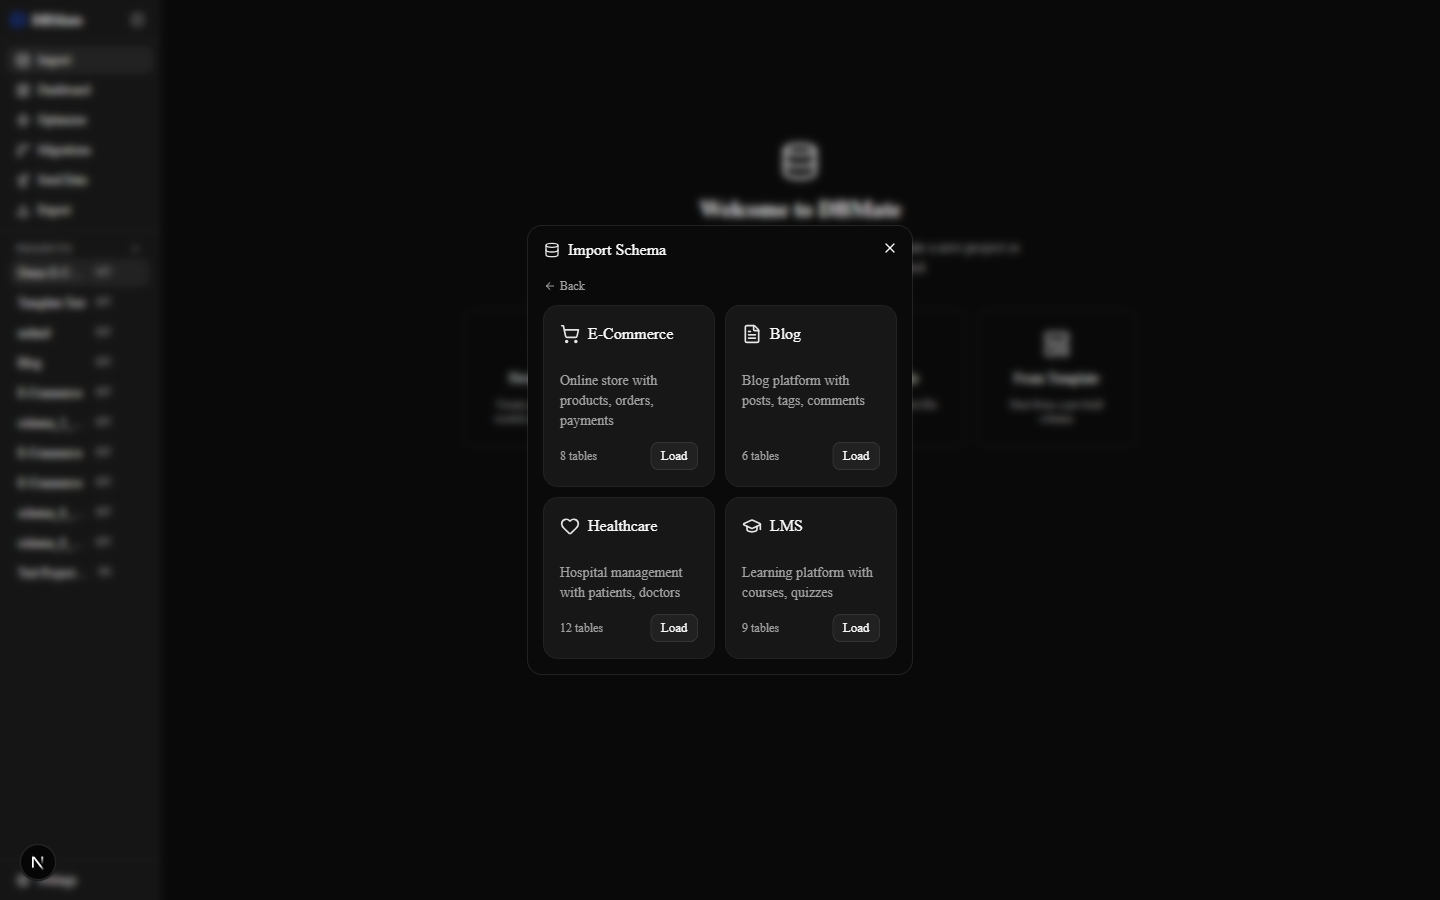
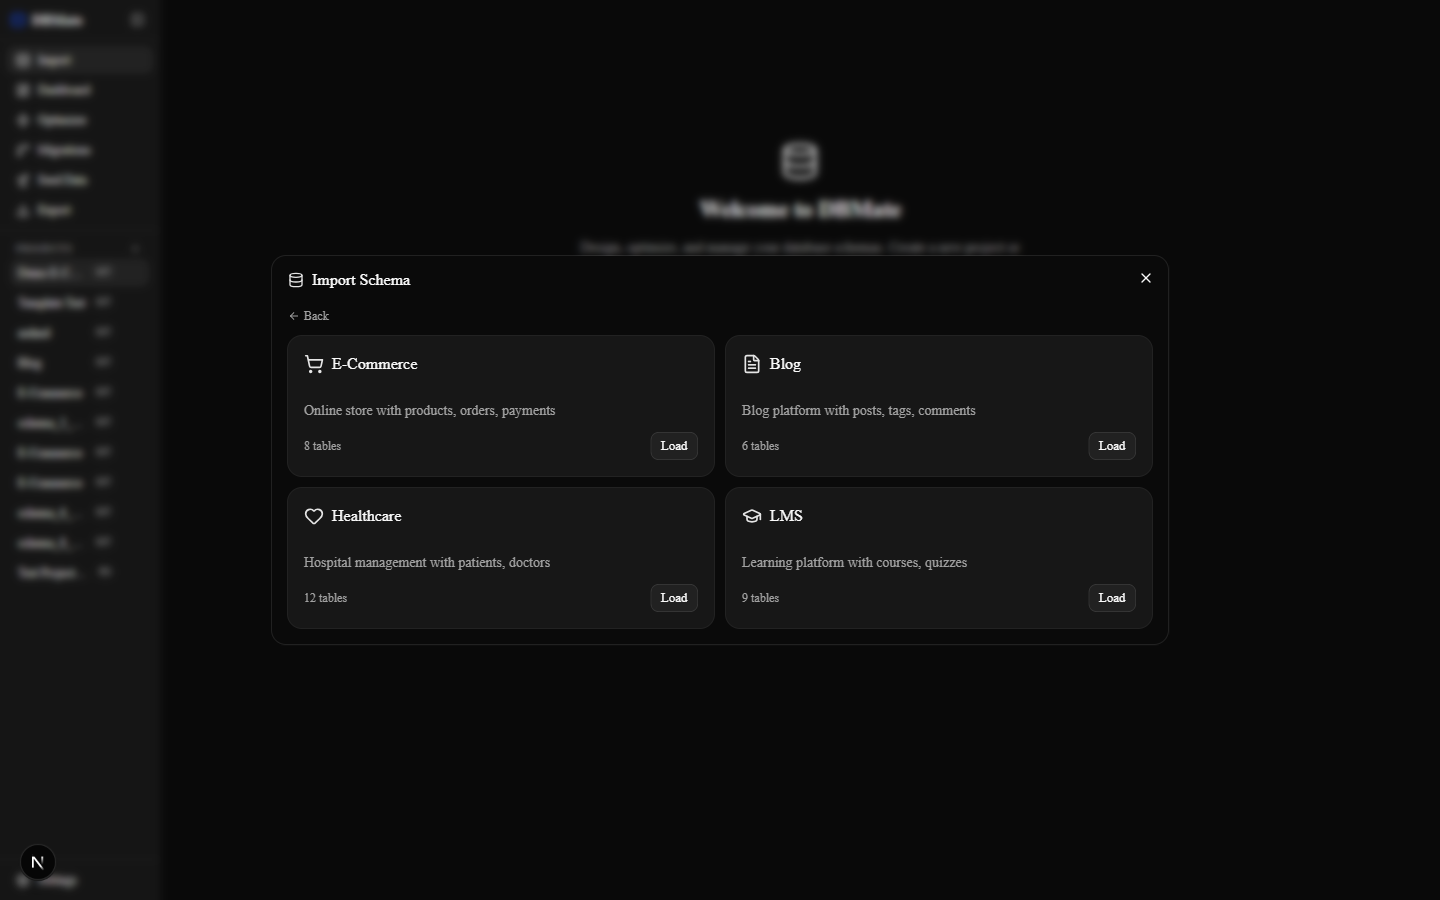
fix: widen dialog, center buttons, add light mode screenshot
- Remove sm:max-w-sm from dialog.tsx that was overriding wizard widths
- Dialog template step: max-w-4xl, SQL step: max-w-3xl
- Center Generate Migration and Seed Data buttons with flex wrapper
- Add light mode dashboard screenshot (19-dashboard-light-mode.png)
- Update SUBMISSION.md with dark/light mode mention

diff --git a/src/app/seed/page.tsx b/src/app/seed/page.tsx
@@ -163,20 +163,22 @@ export default function SeedPage() {
         </div>
 
         {/* Generate button */}
-        <Button
-          onClick={handleGenerate}
-          disabled={isGenerating || enabledTables.length === 0}
-          className="w-full max-w-md mx-auto"
-        >
-          {isGenerating ? (
-            <Loader2 className="h-4 w-4 mr-2 animate-spin" />
-          ) : (
-            <Sprout className="h-4 w-4 mr-2" />
-          )}
-          {isGenerating
-            ? 'Generating...'
-            : `Generate Seed Data (${enabledTables.length} table${enabledTables.length !== 1 ? 's' : ''})`}
-        </Button>
+        <div className="flex justify-center">
+          <Button
+            onClick={handleGenerate}
+            disabled={isGenerating || enabledTables.length === 0}
+            className="w-full max-w-md"
+          >
+            {isGenerating ? (
+              <Loader2 className="h-4 w-4 mr-2 animate-spin" />
+            ) : (
+              <Sprout className="h-4 w-4 mr-2" />
+            )}
+            {isGenerating
+              ? 'Generating...'
+              : `Generate Seed Data (${enabledTables.length} table${enabledTables.length !== 1 ? 's' : ''})`}
+          </Button>
+        </div>
       </Card>
 
       {/* Preview */}

diff --git a/src/components/migrations/migration-generator.tsx b/src/components/migrations/migration-generator.tsx
@@ -48,18 +48,20 @@ export function MigrationGenerator({
         className="min-h-16 text-sm resize-none"
         disabled={disabled || isGenerating}
       />
-      <Button
-        onClick={handleSubmit}
-        disabled={!change.trim() || isGenerating || disabled}
-        className="w-full max-w-md mx-auto"
-      >
-        {isGenerating ? (
-          <Loader2 className="h-4 w-4 mr-2 animate-spin" />
-        ) : (
-          <Sparkles className="h-4 w-4 mr-2" />
-        )}
-        {isGenerating ? 'Generating...' : 'Generate Migration'}
-      </Button>
+      <div className="flex justify-center">
+        <Button
+          onClick={handleSubmit}
+          disabled={!change.trim() || isGenerating || disabled}
+          className="w-full max-w-md"
+        >
+          {isGenerating ? (
+            <Loader2 className="h-4 w-4 mr-2 animate-spin" />
+          ) : (
+            <Sparkles className="h-4 w-4 mr-2" />
+          )}
+          {isGenerating ? 'Generating...' : 'Generate Migration'}
+        </Button>
+      </div>
     </div>
   );
 }

diff --git a/src/components/ui/dialog.tsx b/src/components/ui/dialog.tsx
@@ -53,7 +53,7 @@ function DialogContent({
       <DialogPrimitive.Popup
         data-slot="dialog-content"
         className={cn(
-          "fixed top-1/2 left-1/2 z-50 grid w-full max-w-[calc(100%-2rem)] -translate-x-1/2 -translate-y-1/2 gap-4 rounded-xl bg-background p-4 text-sm ring-1 ring-foreground/10 duration-100 outline-none sm:max-w-sm data-open:animate-in data-open:fade-in-0 data-open:zoom-in-95 data-closed:animate-out data-closed:fade-out-0 data-closed:zoom-out-95",
+          "fixed top-1/2 left-1/2 z-50 grid w-full max-w-[calc(100%-2rem)] -translate-x-1/2 -translate-y-1/2 gap-4 rounded-xl bg-background p-4 text-sm ring-1 ring-foreground/10 duration-100 outline-none data-open:animate-in data-open:fade-in-0 data-open:zoom-in-95 data-closed:animate-out data-closed:fade-out-0 data-closed:zoom-out-95",
           className
         )}
         {...props}

diff --git a/src/components/shared/new-project-wizard.tsx b/src/components/shared/new-project-wizard.tsx
@@ -210,9 +210,9 @@ export function NewProjectWizard({
         className={cn(
           'transition-all duration-200 max-h-[85vh] overflow-y-auto',
           isExtraWide
-            ? 'max-w-3xl'
+            ? 'max-w-4xl'
             : isWide
-              ? 'max-w-2xl'
+              ? 'max-w-3xl'
               : 'max-w-md'
         )}
       >

diff --git a/docs/SUBMISSION.md b/docs/SUBMISSION.md
@@ -147,10 +147,13 @@ Többféle export formátum: Schema SQL, Migrations ZIP, Seed Data, ER Diagram P
 
 ### 4.10. Settings
 
-Felhasználói beállítások: téma (dark/light/system), alapértelmezett dialektus, migrációs formátum, nyelv, AI konfiguráció.
+Felhasználói beállítások: téma (dark/light/system), alapértelmezett dialektus, migrációs formátum, nyelv, AI konfiguráció. Az alkalmazás teljes dark és light módot támogat, amely a Settings oldalon váltható.
 
 ![Settings](screenshots/18-settings.png)
 *Settings — Appearance, Database Defaults, AI Configuration*
+
+![Dashboard Light Mode](screenshots/19-dashboard-light-mode.png)
+*Light mode — az alkalmazás teljes egészében támogatja a világos témát*
 
 ## 5. Prompt Engineering technikák és tanulságok
 
@@ -241,4 +244,4 @@ Tapasztalat: a Claude Code kiemelkedően hatékony volt a fázisonkénti fejlesz
 | Zustand store-ok | 3 (723 sor) |
 | AI funkciók | 6 (chat, analyze, migrate, seed, explain, index-analysis) |
 | Build status | Sikeres (0 hiba) |
-| Screenshot-ok | 18 |
+| Screenshot-ok | 19 (dark + light mode) |
